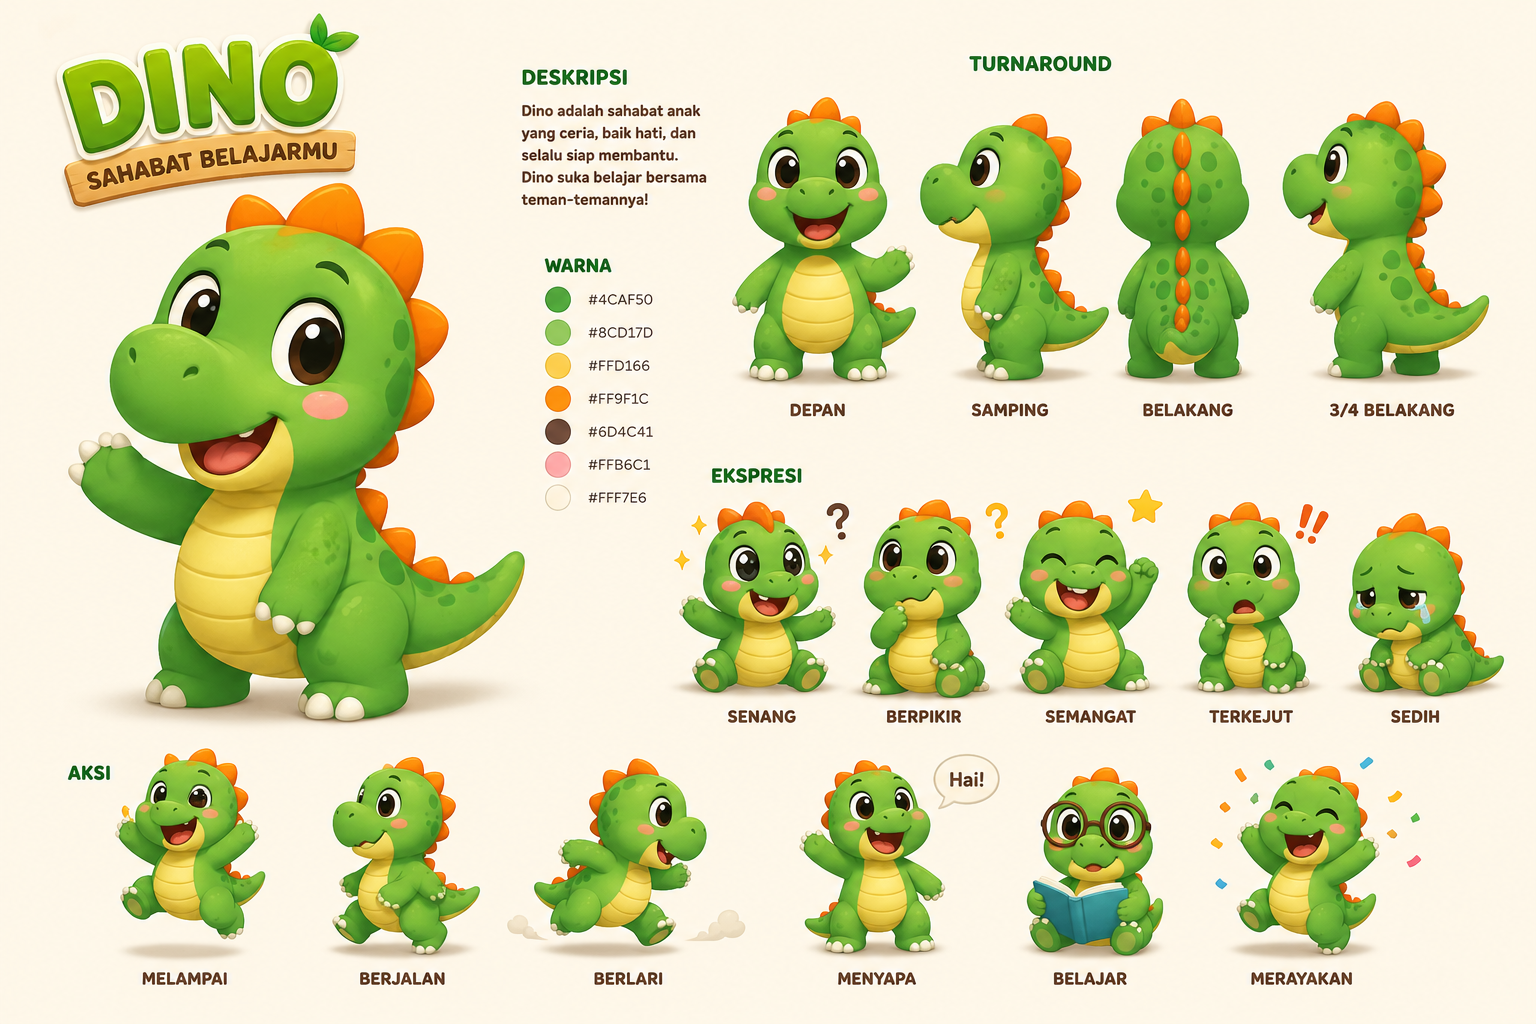
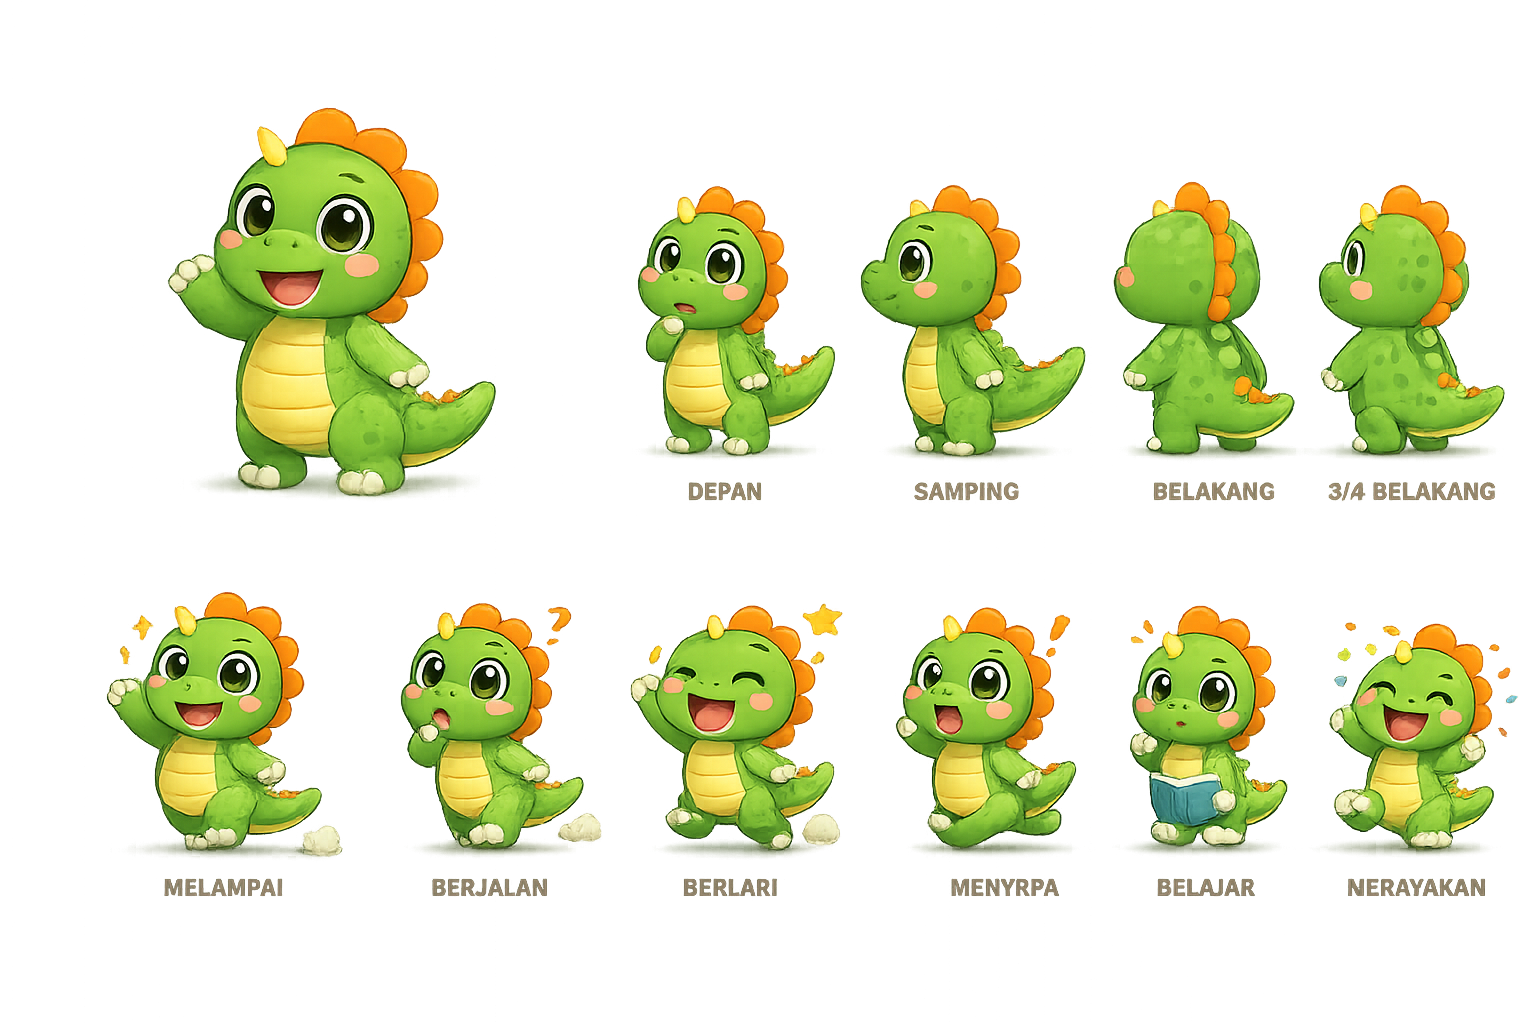
Add files via upload

diff --git a/js/ui/dino.js b/js/ui/dino.js
@@ -1,18 +1,31 @@
 /* ============================================================
  * js/ui/dino.js
- * SVG Dino Triceratops — rendering karakter dengan aksesoris
+ * SVG Dino Triceratops — rendering karakter dengan aksesoris & pose dinamis
  * ============================================================ */
 
-function getDinoSvg(activeAccessory = '') {
+function getDinoSvg(activeAccessory = '', pose = 'waving') {
     const show = (id) => activeAccessory === id ? '' : 'class="hidden"';
 
+    const poses = {
+        waving: { viewBox: "0 0 380 400", x: -120, y: -100, width: 1536, height: 1024, accTransform: "translate(50, -25) scale(5.2)" },
+        thinking: { viewBox: "0 0 200 280", x: -615, y: -175, width: 1536, height: 1024, accTransform: "translate(4, -40) scale(3.2)" },
+        samping: { viewBox: "0 0 200 280", x: -825, y: -175, width: 1536, height: 1024, accTransform: "translate(10, -40) scale(3.2)" },
+        belajar: { viewBox: "0 0 200 280", x: -1030, y: -570, width: 1536, height: 1024, accTransform: "translate(5, -40) scale(3.2)" },
+        merayakan: { viewBox: "0 0 210 280", x: -1250, y: -570, width: 1536, height: 1024, accTransform: "translate(8, -40) scale(3.2)" },
+        berjalan: { viewBox: "0 0 210 280", x: -340, y: -570, width: 1536, height: 1024, accTransform: "translate(4, -40) scale(3.2)" },
+        berlari: { viewBox: "0 0 220 280", x: -570, y: -570, width: 1536, height: 1024, accTransform: "translate(8, -40) scale(3.2)" },
+        menyapa: { viewBox: "0 0 200 280", x: -810, y: -570, width: 1536, height: 1024, accTransform: "translate(4, -40) scale(3.2)" }
+    };
+
+    const p = poses[pose] || poses.waving;
+
     return `
-<svg class="dino-graphic" viewBox="0 0 500 540" width="100%" height="100%">
+<svg class="dino-graphic" viewBox="${p.viewBox}" width="100%" height="100%">
     <!-- Base Dino Image cropped from the sheet -->
-    <image href="image/dino.png" x="-40" y="-170" width="1536" height="1024" />
+    <image href="image/dino.png" x="${p.x}" y="${p.y}" width="${p.width}" height="${p.height}" />
     
-    <!-- Accessories wrapped and scaled to fit the new Dino's head -->
-    <g transform="translate(55, -20) scale(5.2)">
+    <!-- Accessories wrapped and scaled to fit the specific pose's head -->
+    <g transform="${p.accTransform}">
         <g id="acc-explorer-hat" ${show('explorer-hat')}>
             <ellipse cx="28" cy="24" rx="16" ry="4" fill="#8D6E63" stroke="#5D4037" stroke-width="1.5" />
             <path d="M18 24 C18 14, 38 14, 38 24 Z" fill="#8D6E63" stroke="#5D4037" stroke-width="1.5" />
@@ -35,4 +48,13 @@ function getDinoSvg(activeAccessory = '') {
         </g>
     </g>
 </svg>`;
+}
+
+// --- FUNGSI UPDATE MASKOT DINO SECARA DINAMIS ---
+function updateMascotDino(poseName) {
+    const mascot = document.getElementById('game-mascot-dino');
+    if (mascot) {
+        const accessory = (window.gameState && window.gameState.activeAccessory) || '';
+        mascot.innerHTML = getDinoSvg(accessory, poseName);
+    }
 }

diff --git a/js/learning/huruf/huruf-matching.js b/js/learning/huruf/huruf-matching.js
@@ -5,6 +5,8 @@
 
 // --- LOAD FASE MATCHING (DRAG HURUF KE KERANJANG) ---
 function loadLetterChallenge() {
+    if (typeof updateMascotDino === 'function') updateMascotDino('thinking'); // Dino berpikir
+    
     const letters = LEVEL_GROUPS[gameState.currentLevelRange];
     const letter = letters[gameState.currentLetterIndex];
     gameState.currentTargetLetter = letter;
@@ -104,6 +106,7 @@ function loadLetterChallenge() {
                         dragEl.style.transform = 'scale(0.1)';
                         dragEl.style.opacity = '0';
 
+                        if (typeof updateMascotDino === 'function') updateMascotDino('merayakan'); // Dino senang
                         const mascot = document.getElementById('game-mascot-dino');
                         if (mascot) {
                             mascot.classList.add('jump');
@@ -144,6 +147,7 @@ function handleOptionClick(selectedLetter, cardElement) {
     if (selectedLetter === gameState.currentTargetLetter) {
         cardElement.classList.add('correct');
 
+        if (typeof updateMascotDino === 'function') updateMascotDino('merayakan'); // Dino senang
         const mascot = document.getElementById('game-mascot-dino');
         if (mascot) {
             mascot.classList.add('jump');
@@ -166,6 +170,8 @@ function handleOptionClick(selectedLetter, cardElement) {
 
 // --- TRANSISI KE FASE UCAPKAN HURUF ---
 function transitionToSpeakPhase() {
+    if (typeof updateMascotDino === 'function') updateMascotDino('menyapa'); // Dino menyapa
+    
     document.getElementById('game-match-view').classList.add('hidden');
     document.getElementById('game-speak-view').classList.remove('hidden');
 

diff --git a/js/game/reward.js b/js/game/reward.js
@@ -83,7 +83,7 @@ function triggerEggHatching() {
 
     modal.classList.remove('hidden');
     animArea.classList.remove('hatched');
-    animDino.innerHTML = getDinoSvg();
+    animDino.innerHTML = getDinoSvg('', 'merayakan');
 
     // Mainkan sound effect sukses & suara narasi pembuka menetas: Selamat! Dino senang sekali! (MP3: 0041 & 0015)
     playSuccessSFX();
@@ -205,6 +205,7 @@ function renderShopItems() {
 window.equipAccessory = function(id) {
     gameState.activeAccessory = id;
     saveGameState();
+    if (typeof updateUIElements === 'function') updateUIElements();
     renderShopItems();
     showNotification("Aksesoris dipasang!");
     playSuccessSFX();
@@ -217,6 +218,7 @@ window.buyAccessory = function(id, price) {
         gameState.unlockedAccessories.push(id);
         gameState.activeAccessory = id;
         saveGameState();
+        if (typeof updateUIElements === 'function') updateUIElements();
         document.getElementById('shop-coin-count').textContent = gameState.coins;
         renderShopItems();
         showNotification("Aksesoris berhasil dibeli dan dipakai!");

diff --git a/js/learning/huruf/huruf-intro.js b/js/learning/huruf/huruf-intro.js
@@ -5,6 +5,8 @@
 
 // --- SETUP VIEW LEMBAR MEMBACA (PART 2) ---
 function setupReadView(range) {
+    if (typeof updateMascotDino === 'function') updateMascotDino('belajar'); // Dino belajar
+    
     document.getElementById('game-level-title').textContent = `Misi: Membaca ${range}`;
 
     const dotsContainer = document.getElementById('game-step-dots');
@@ -107,6 +109,8 @@ function setupReadView(range) {
 
 // --- SETUP VIEW KATA GAMBAR ---
 function setupPictureView(range) {
+    if (typeof updateMascotDino === 'function') updateMascotDino('belajar'); // Dino belajar
+    
     document.getElementById('game-level-title').textContent = `Misi Gambar: ${range}`;
 
     const dotsContainer = document.getElementById('game-step-dots');

diff --git a/js/learning/huruf/huruf-dragdrop.js b/js/learning/huruf/huruf-dragdrop.js
@@ -5,6 +5,8 @@
 
 // --- LOAD MODE PASANGKAN HURUF (BESAR-KECIL) ---
 function loadDragMatchChallenge() {
+    if (typeof updateMascotDino === 'function') updateMascotDino('thinking'); // Dino berpikir
+    
     const range = gameState.currentLevelRange;
     const letters = LEVEL_GROUPS[range];
 
@@ -106,6 +108,7 @@ function loadDragMatchChallenge() {
                             saveGameState();
                             spawnConfetti();
 
+                            if (typeof updateMascotDino === 'function') updateMascotDino('merayakan'); // Dino senang
                             const mascot = document.getElementById('game-mascot-dino');
                             if (mascot) {
                                 mascot.classList.add('jump');

diff --git a/js/learning/menulis.js b/js/learning/menulis.js
@@ -5,6 +5,8 @@
 
 // --- LOAD FASE MENULIS (ROUTING BERDASARKAN LEVEL RANGE) ---
 function loadWriteChallenge() {
+    if (typeof updateMascotDino === 'function') updateMascotDino('belajar'); // Dino belajar
+    
     const letter = gameState.currentTargetLetter;
     const range = gameState.currentLevelRange;
 
@@ -321,6 +323,7 @@ function completeWriteChallenge() {
     const range = gameState.currentLevelRange;
 
     spawnConfetti();
+    if (typeof updateMascotDino === 'function') updateMascotDino('merayakan'); // Dino senang
     const mascot = document.getElementById('game-mascot-dino');
     if (mascot) {
         mascot.classList.add('jump');